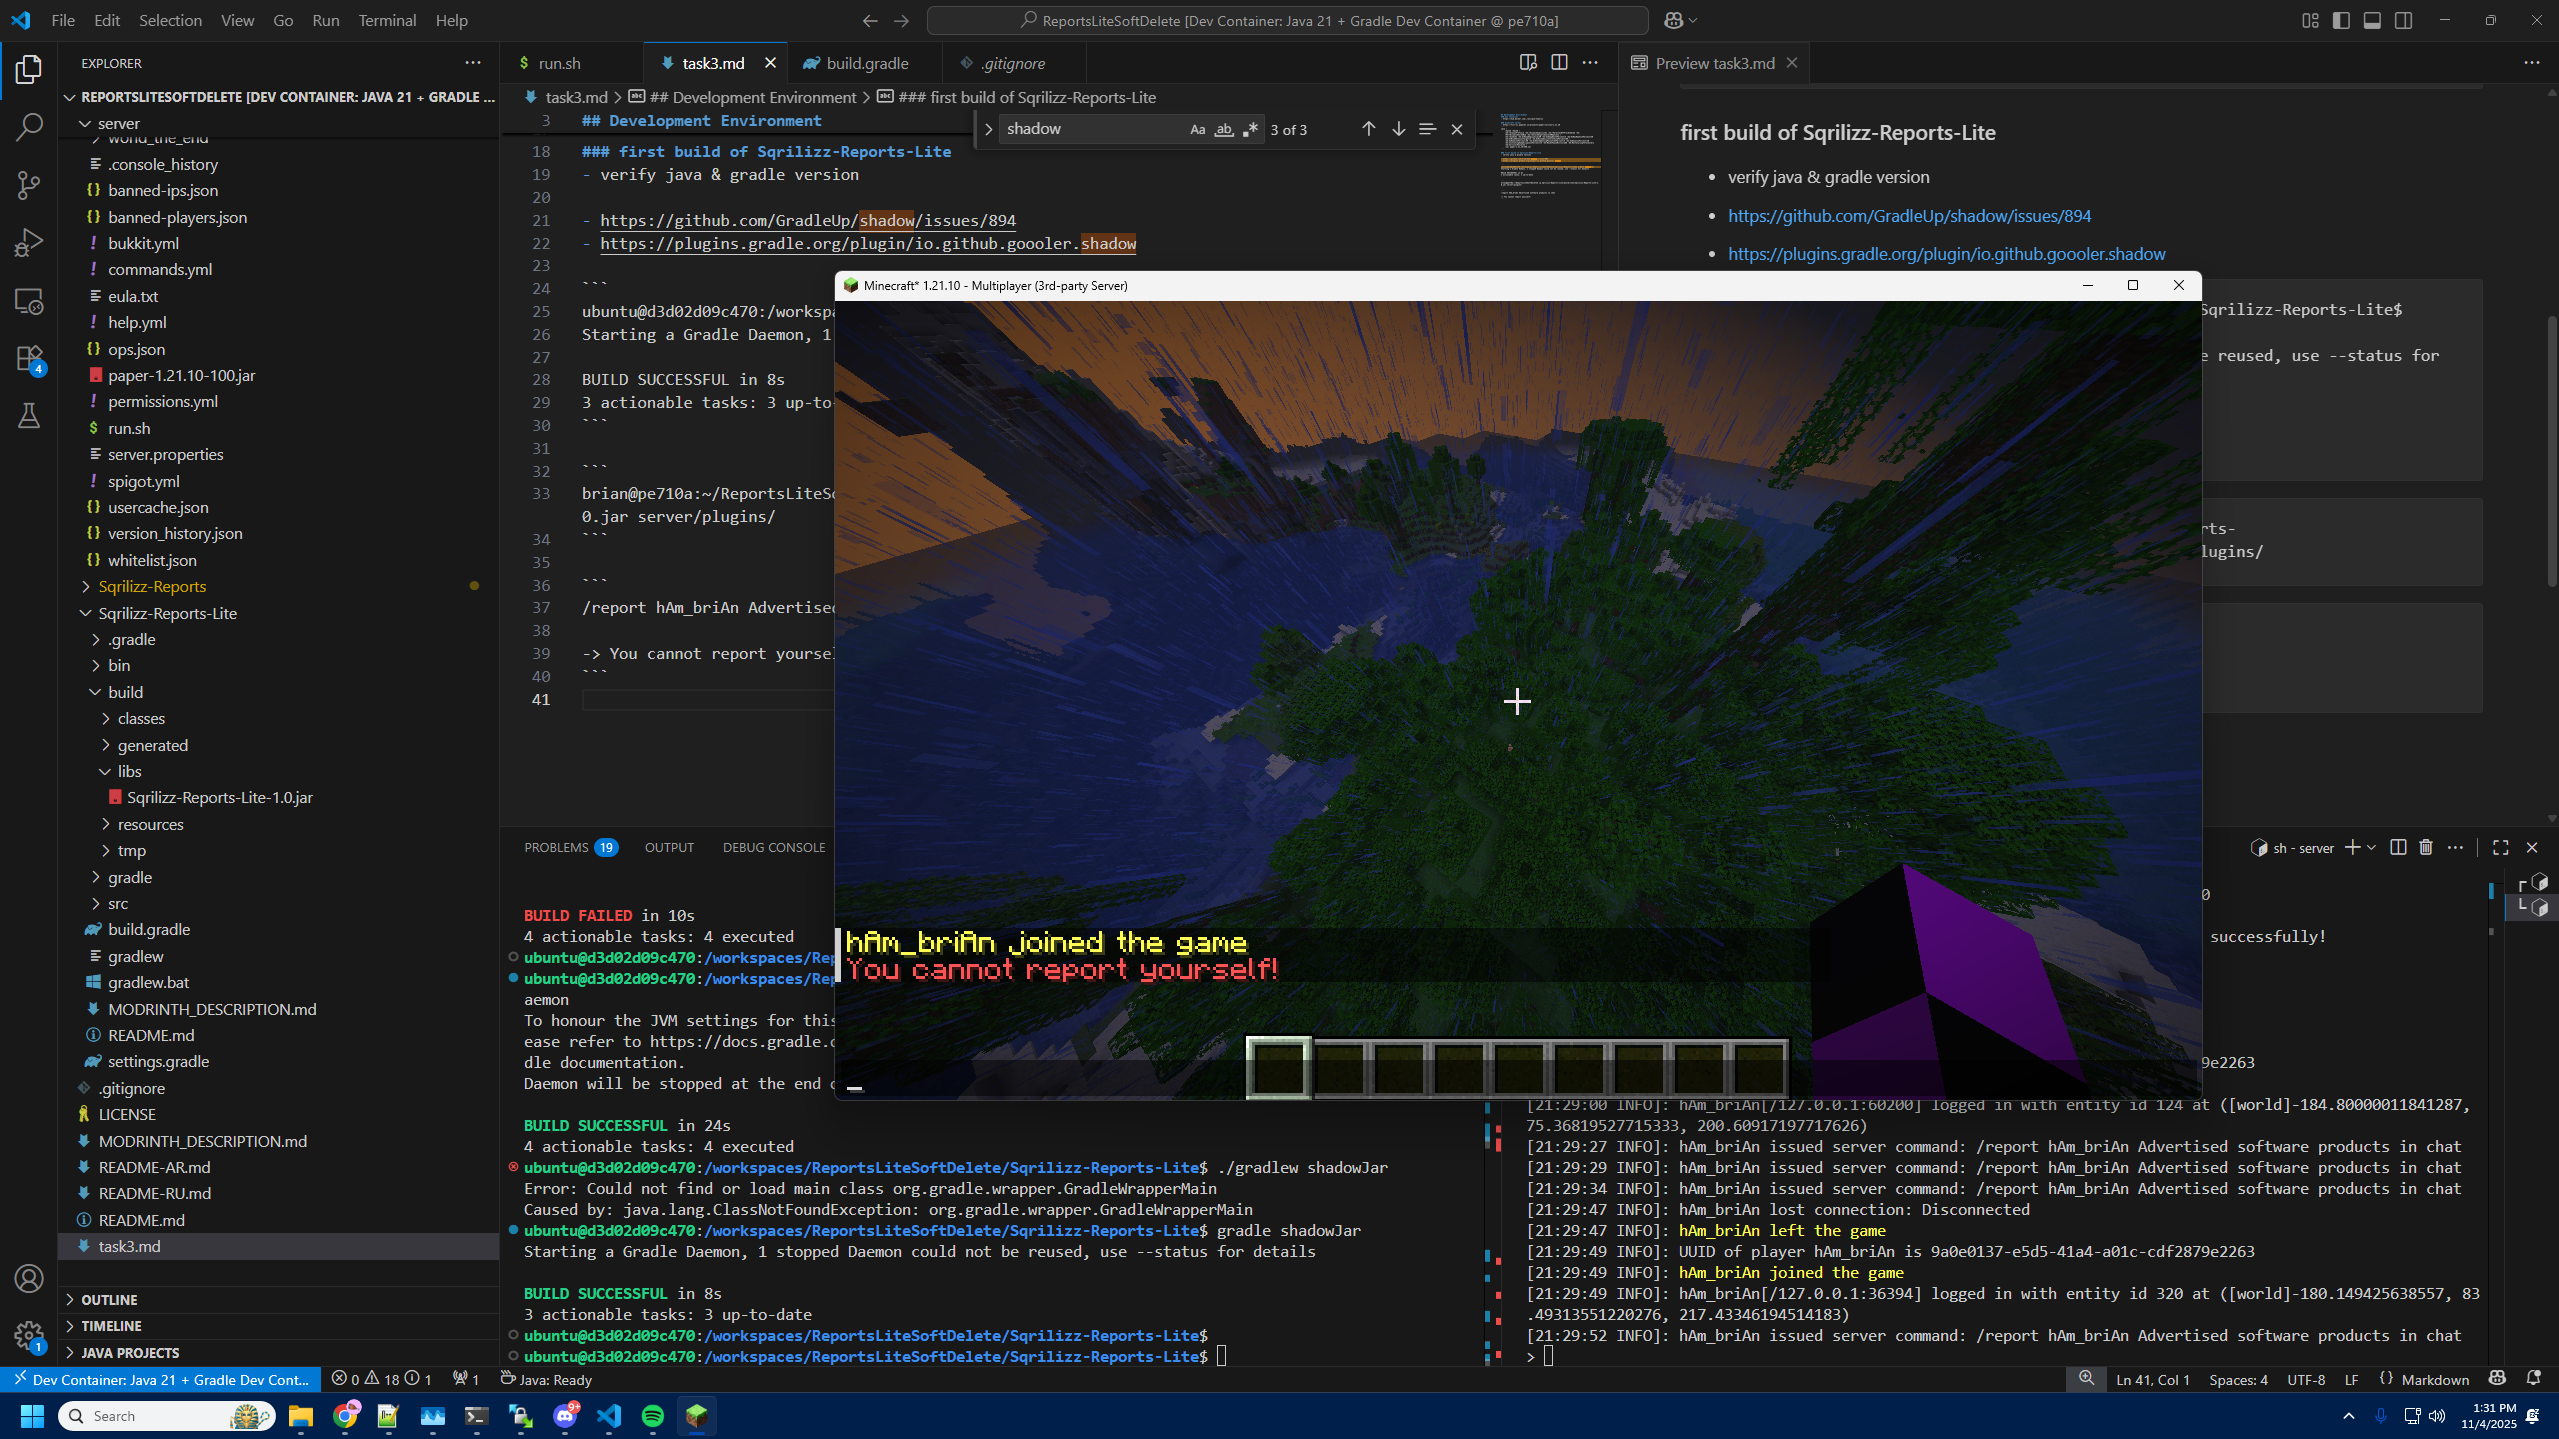
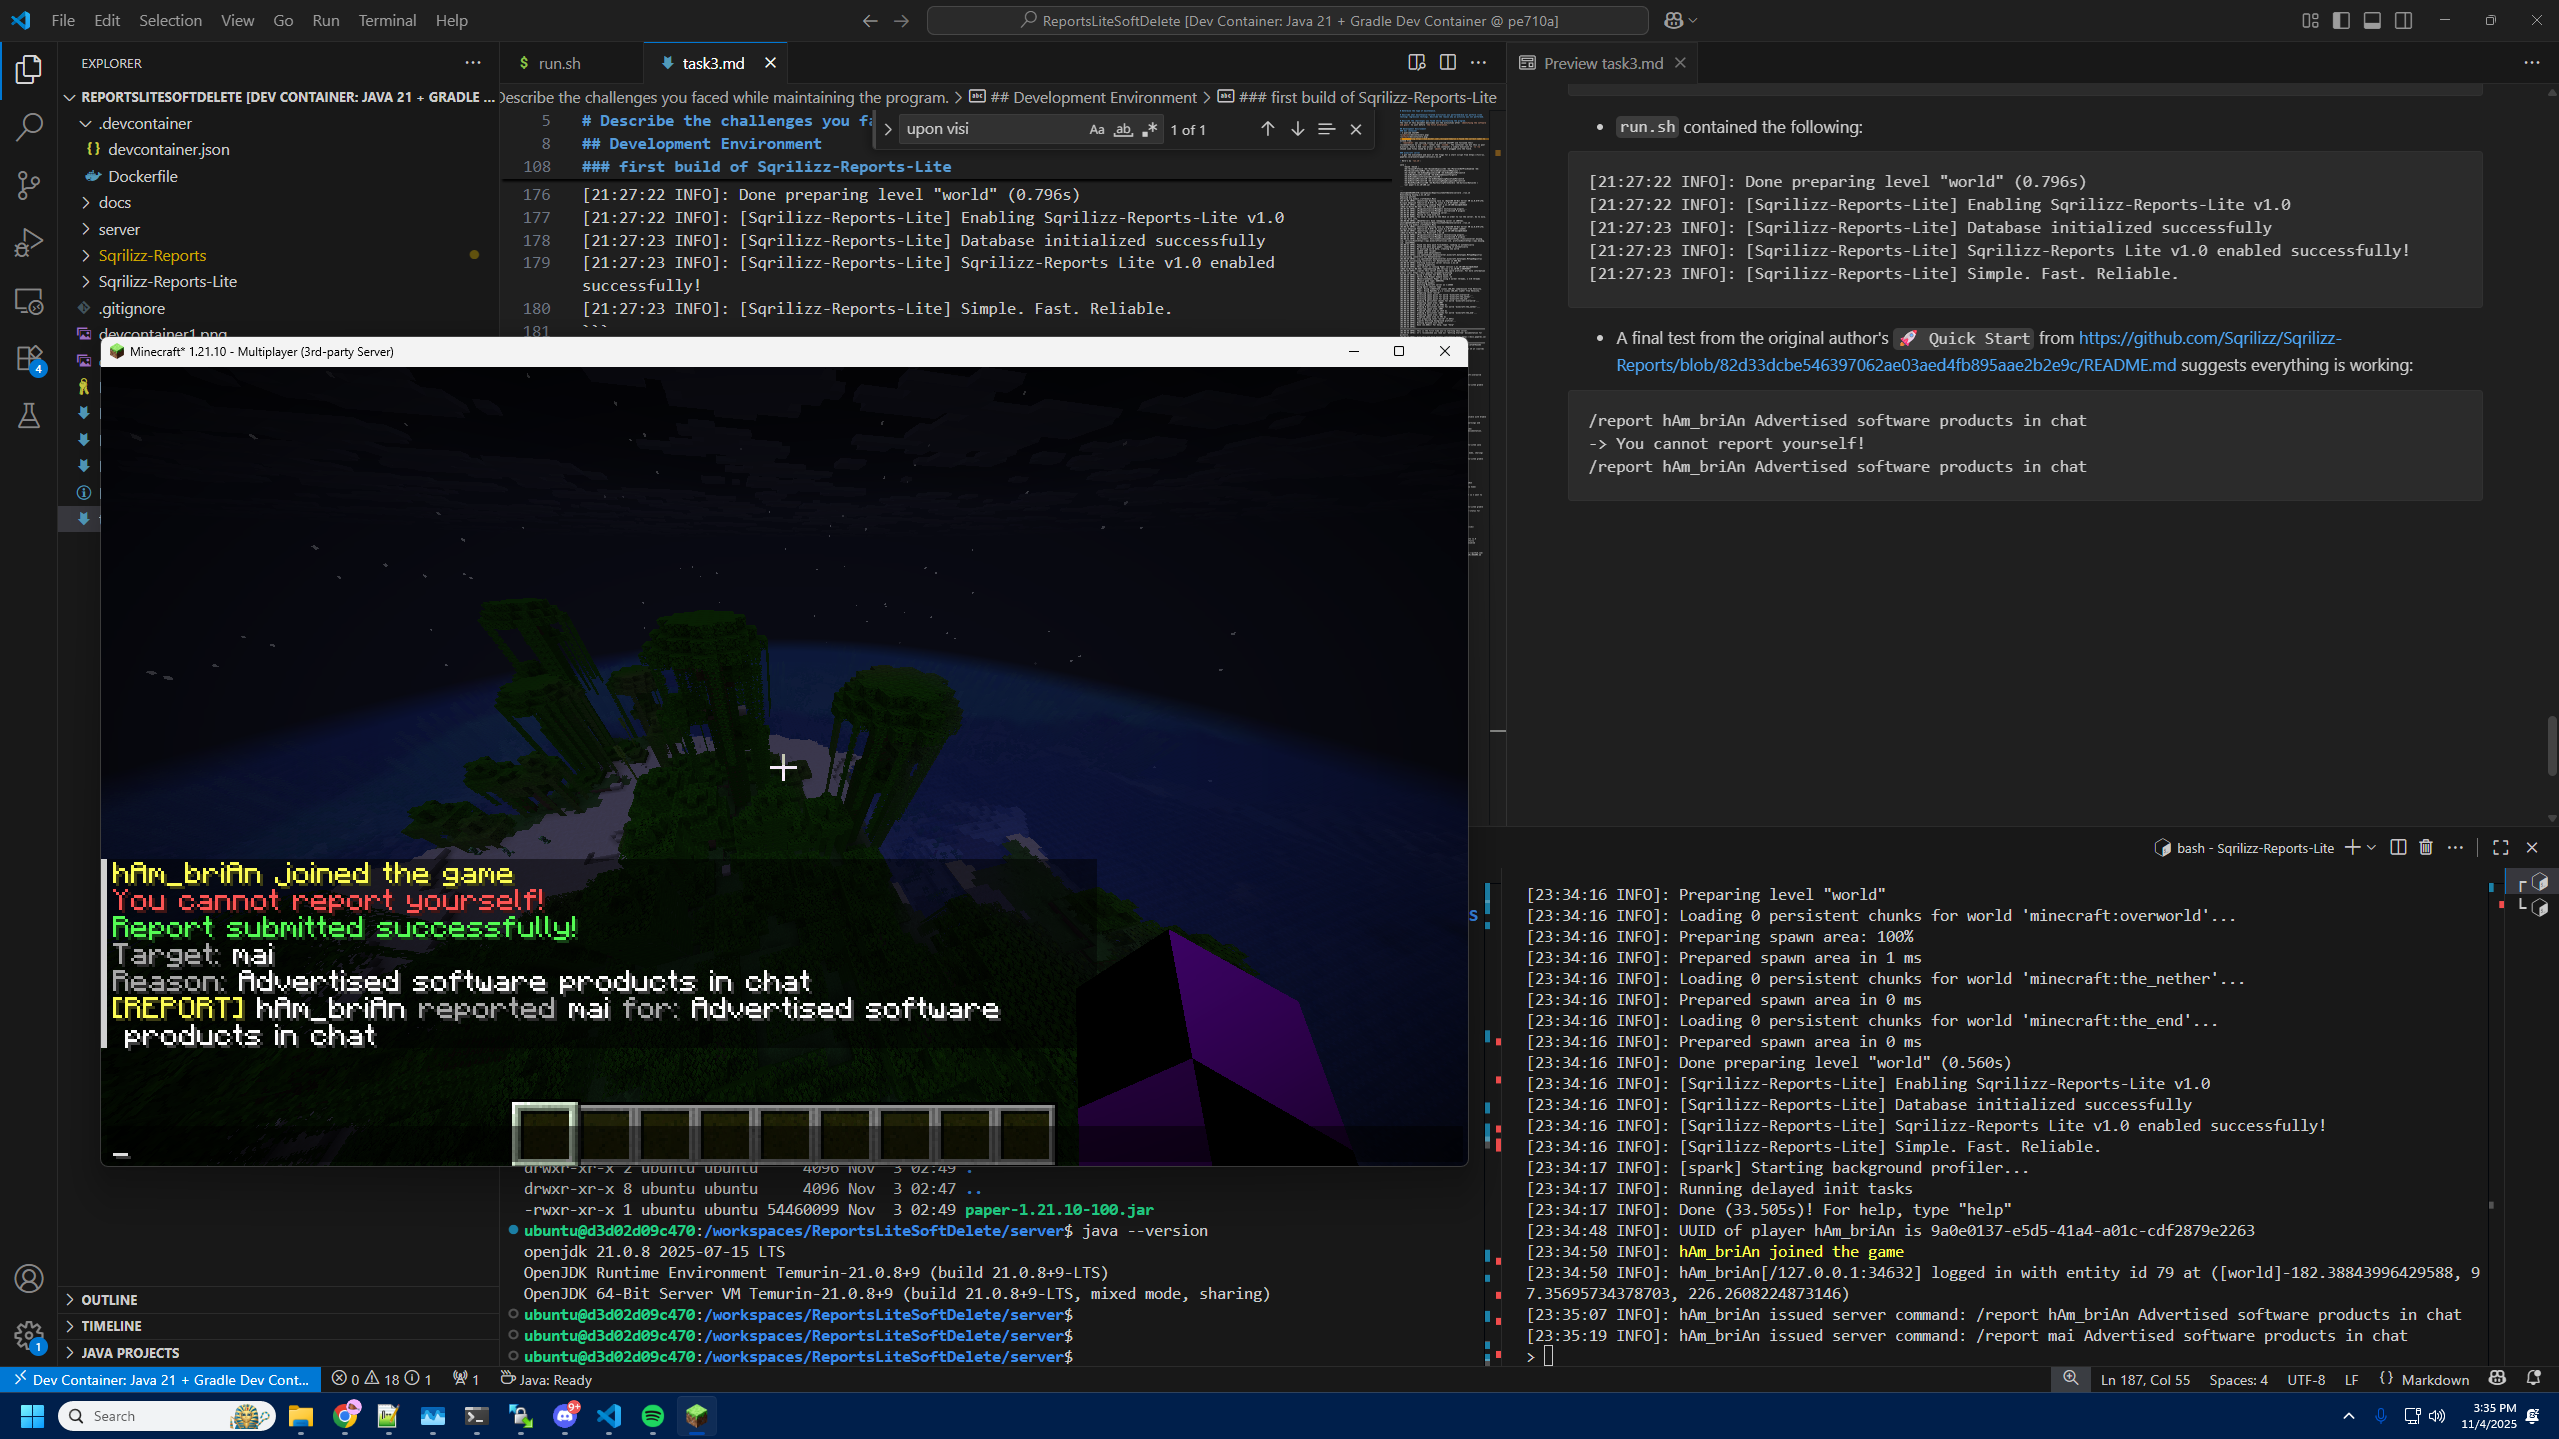
testing report

diff --git a/task3.md b/task3.md
@@ -8,8 +8,8 @@ The rest of this document describes all the activities after `identifying the so
 ## Development Environment
 ### dev container
 - I queried ChatGPT   
-![caption](devcontainer1.png)
-![altext](devcontainer2.png)
+![devcontainer query](devcontainer1.png)
+![devcontainer query response](devcontainer2.png)
 - Upon visiting https://hub.docker.com/_/eclipse-temurin I found the correct label to extend from.
 - `remoteUser` was causing issues so I queried ChatGPT and followed their recommendation to use `root` rather than `vscode`. The container ran but this is poor practice. Since I had root access in the container a simple execution of `ls -la` showed some files owned by a user `ubuntu` who I plugged into the field.  
 
@@ -183,7 +183,8 @@ brian@pe710a:~/ReportsLiteSoftDelete$ cp Sqrilizz-Reports-Lite/build/libs/Sqrili
 - A final test from the original author's `🚀 Quick Start` from https://github.com/Sqrilizz/Sqrilizz-Reports/blob/82d33dcbe546397062ae03aed4fb895aae2b2e9c/README.md suggests everything is working:
 ```
 /report hAm_briAn Advertised software products in chat
-
 -> You cannot report yourself!
+/report mai Advertised software products in chat
+-> Report submitted successfully
 ```
-![Success](first_build_success.png)
+![test](first_build_success.png)
